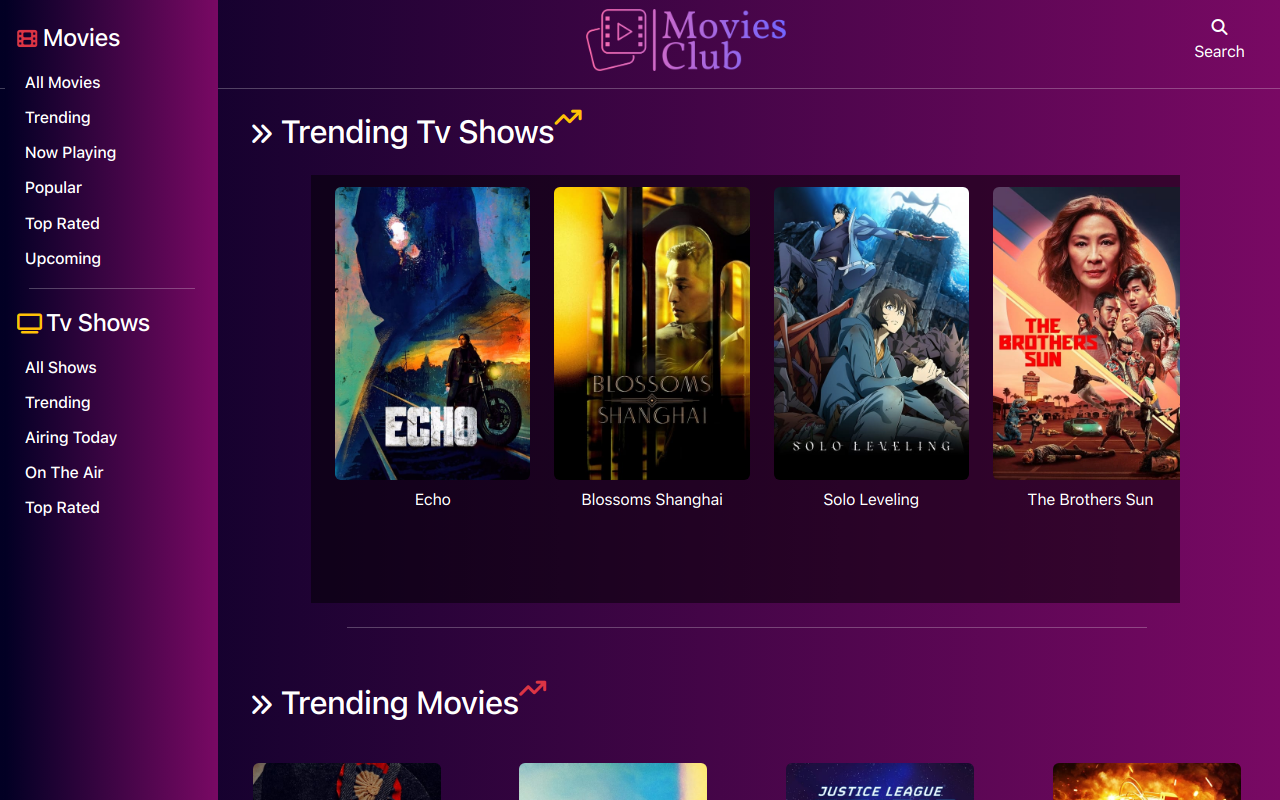
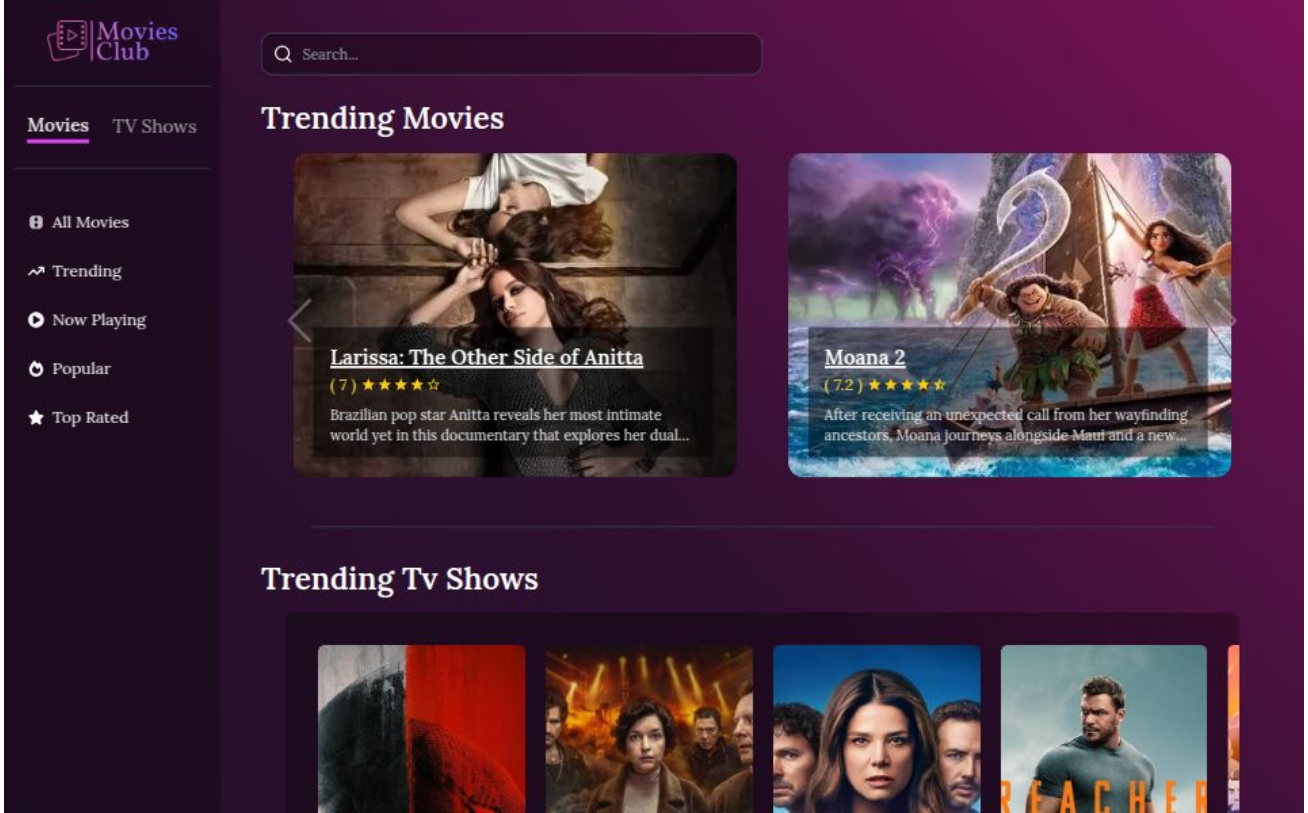
edit

diff --git a/constant/index.tsx b/constant/index.tsx
@@ -9,7 +9,7 @@ export const NavItems = [
 ]
 
 export const MyProjects = [
-    { name: 'Movies & Shows', date: 'Feb 2024', techs: ['Next.js', 'Bootstrap',], link: 'https://movies-next-js-one.vercel.app/', git: 'https://github.com/Mostafa3ta/Movies_Next.js', img: '/movies.png', description: 'Responsive web application to search and display detailed information about movies and TV shows using the TMDB API.' },
+    { name: 'Movies & Shows', date: 'Feb 2025', techs: ['Next.js', 'Bootstrap',], link: 'https://movies-henna-zeta.vercel.app/', git: 'https://github.com/Mostafa3ta/movies', img: '/movies.png', description: 'Developed a responsive Movies & Shows web application using Next.js, leveraging the TMDB API to provide a dynamic and information-rich user experience. Implemented features like advanced search filtering, responsive image galleries, and optimized data fetching for smooth performance.' },
     { name: 'Cars Rental', date: 'Jan 2024', techs: ['Next.js', 'Typescript', 'Tailwind CSS', 'Headless UI'], link: 'https://cars-rental-kappa.vercel.app/', git: 'https://github.com/Mostafa3ta/Cars-Rental', img: '/cars.png', description: 'Comprehensive car rental search platform using Tailwind CSS, TypeScript, and Headless UI. Utilized APIs from RapidAPI and API Ninjas to provide detailed car rental information.' },
     { name: 'E-commerce', date: 'Jan 2024', techs: ['React.js', 'Redux', 'Bootstrap',], link: 'https://e-commerce-react-js-gamma.vercel.app/', git: 'https://github.com/Mostafa3ta/E-commerce_React.js', img: '/e-commerce-4.png', description: 'User-friendly e-commerce website using React, Redux Toolkit, and Bootstrap. Utilized dummyJSON API for product data and implemented token-based authentication for secure user access.' },
     { name: 'First Portfolio', date: 'Dec 2023', techs: ['HTML', 'CSS', 'JavaScript', 'Bootstrap',], link: 'https://portfolio-ten-tau-56.vercel.app/', git: 'https://github.com/Mostafa3ta/Portfolio', img: '/profile-light.png', description: `My first Personal portfolio website, built it using HTML, CSS, and JavaScript. Utilized Bootstrap's grid system for efficient layout and responsiveness.` },
